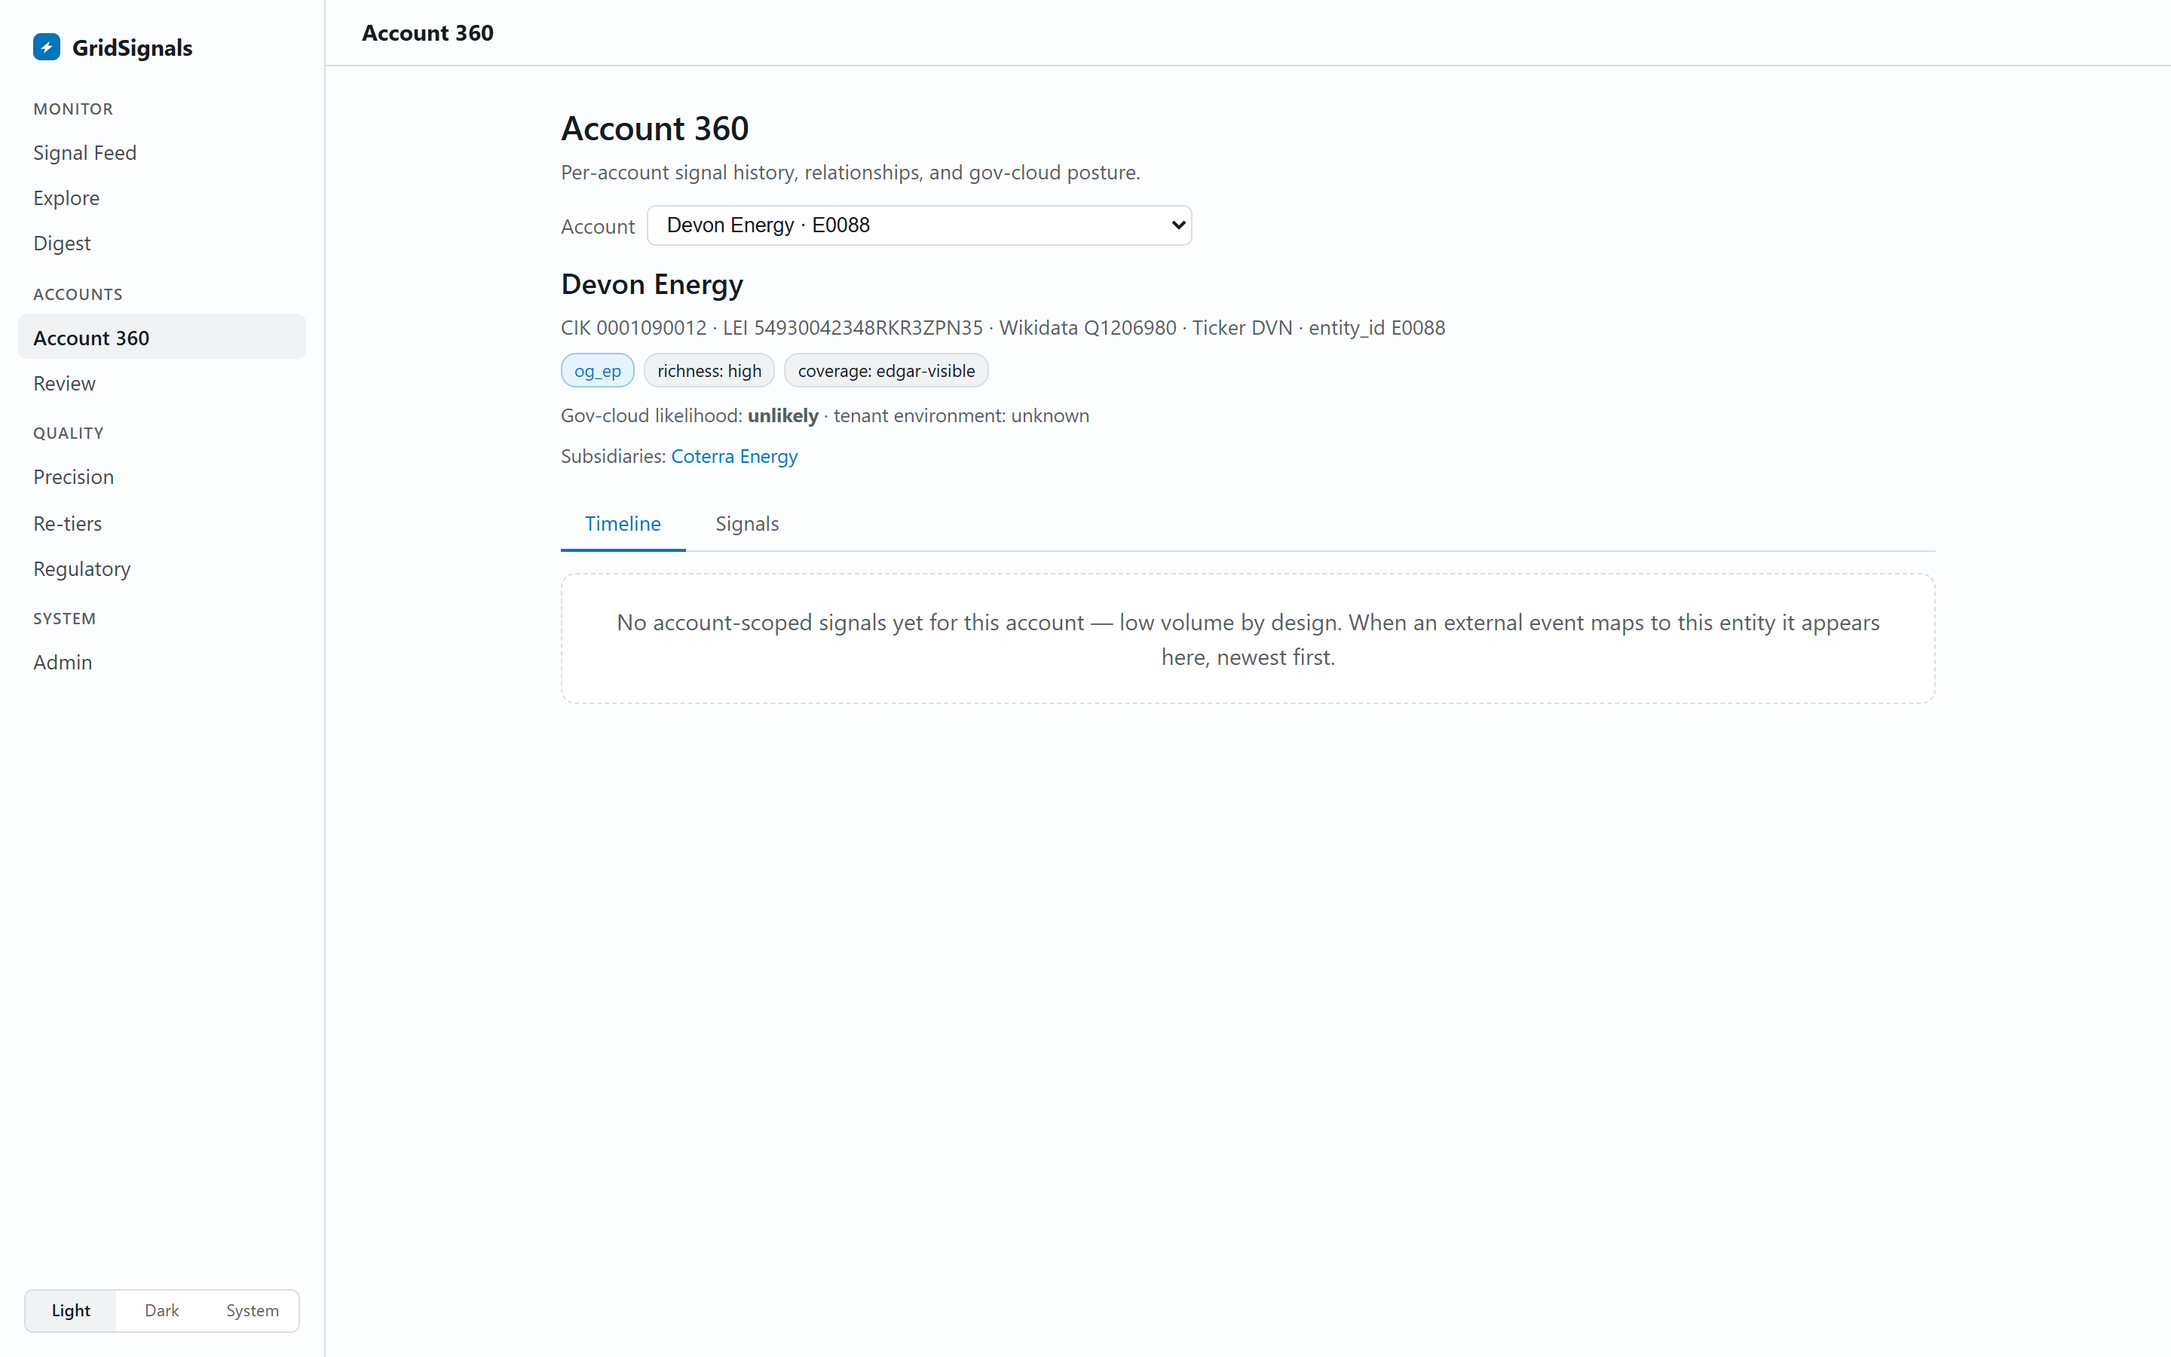
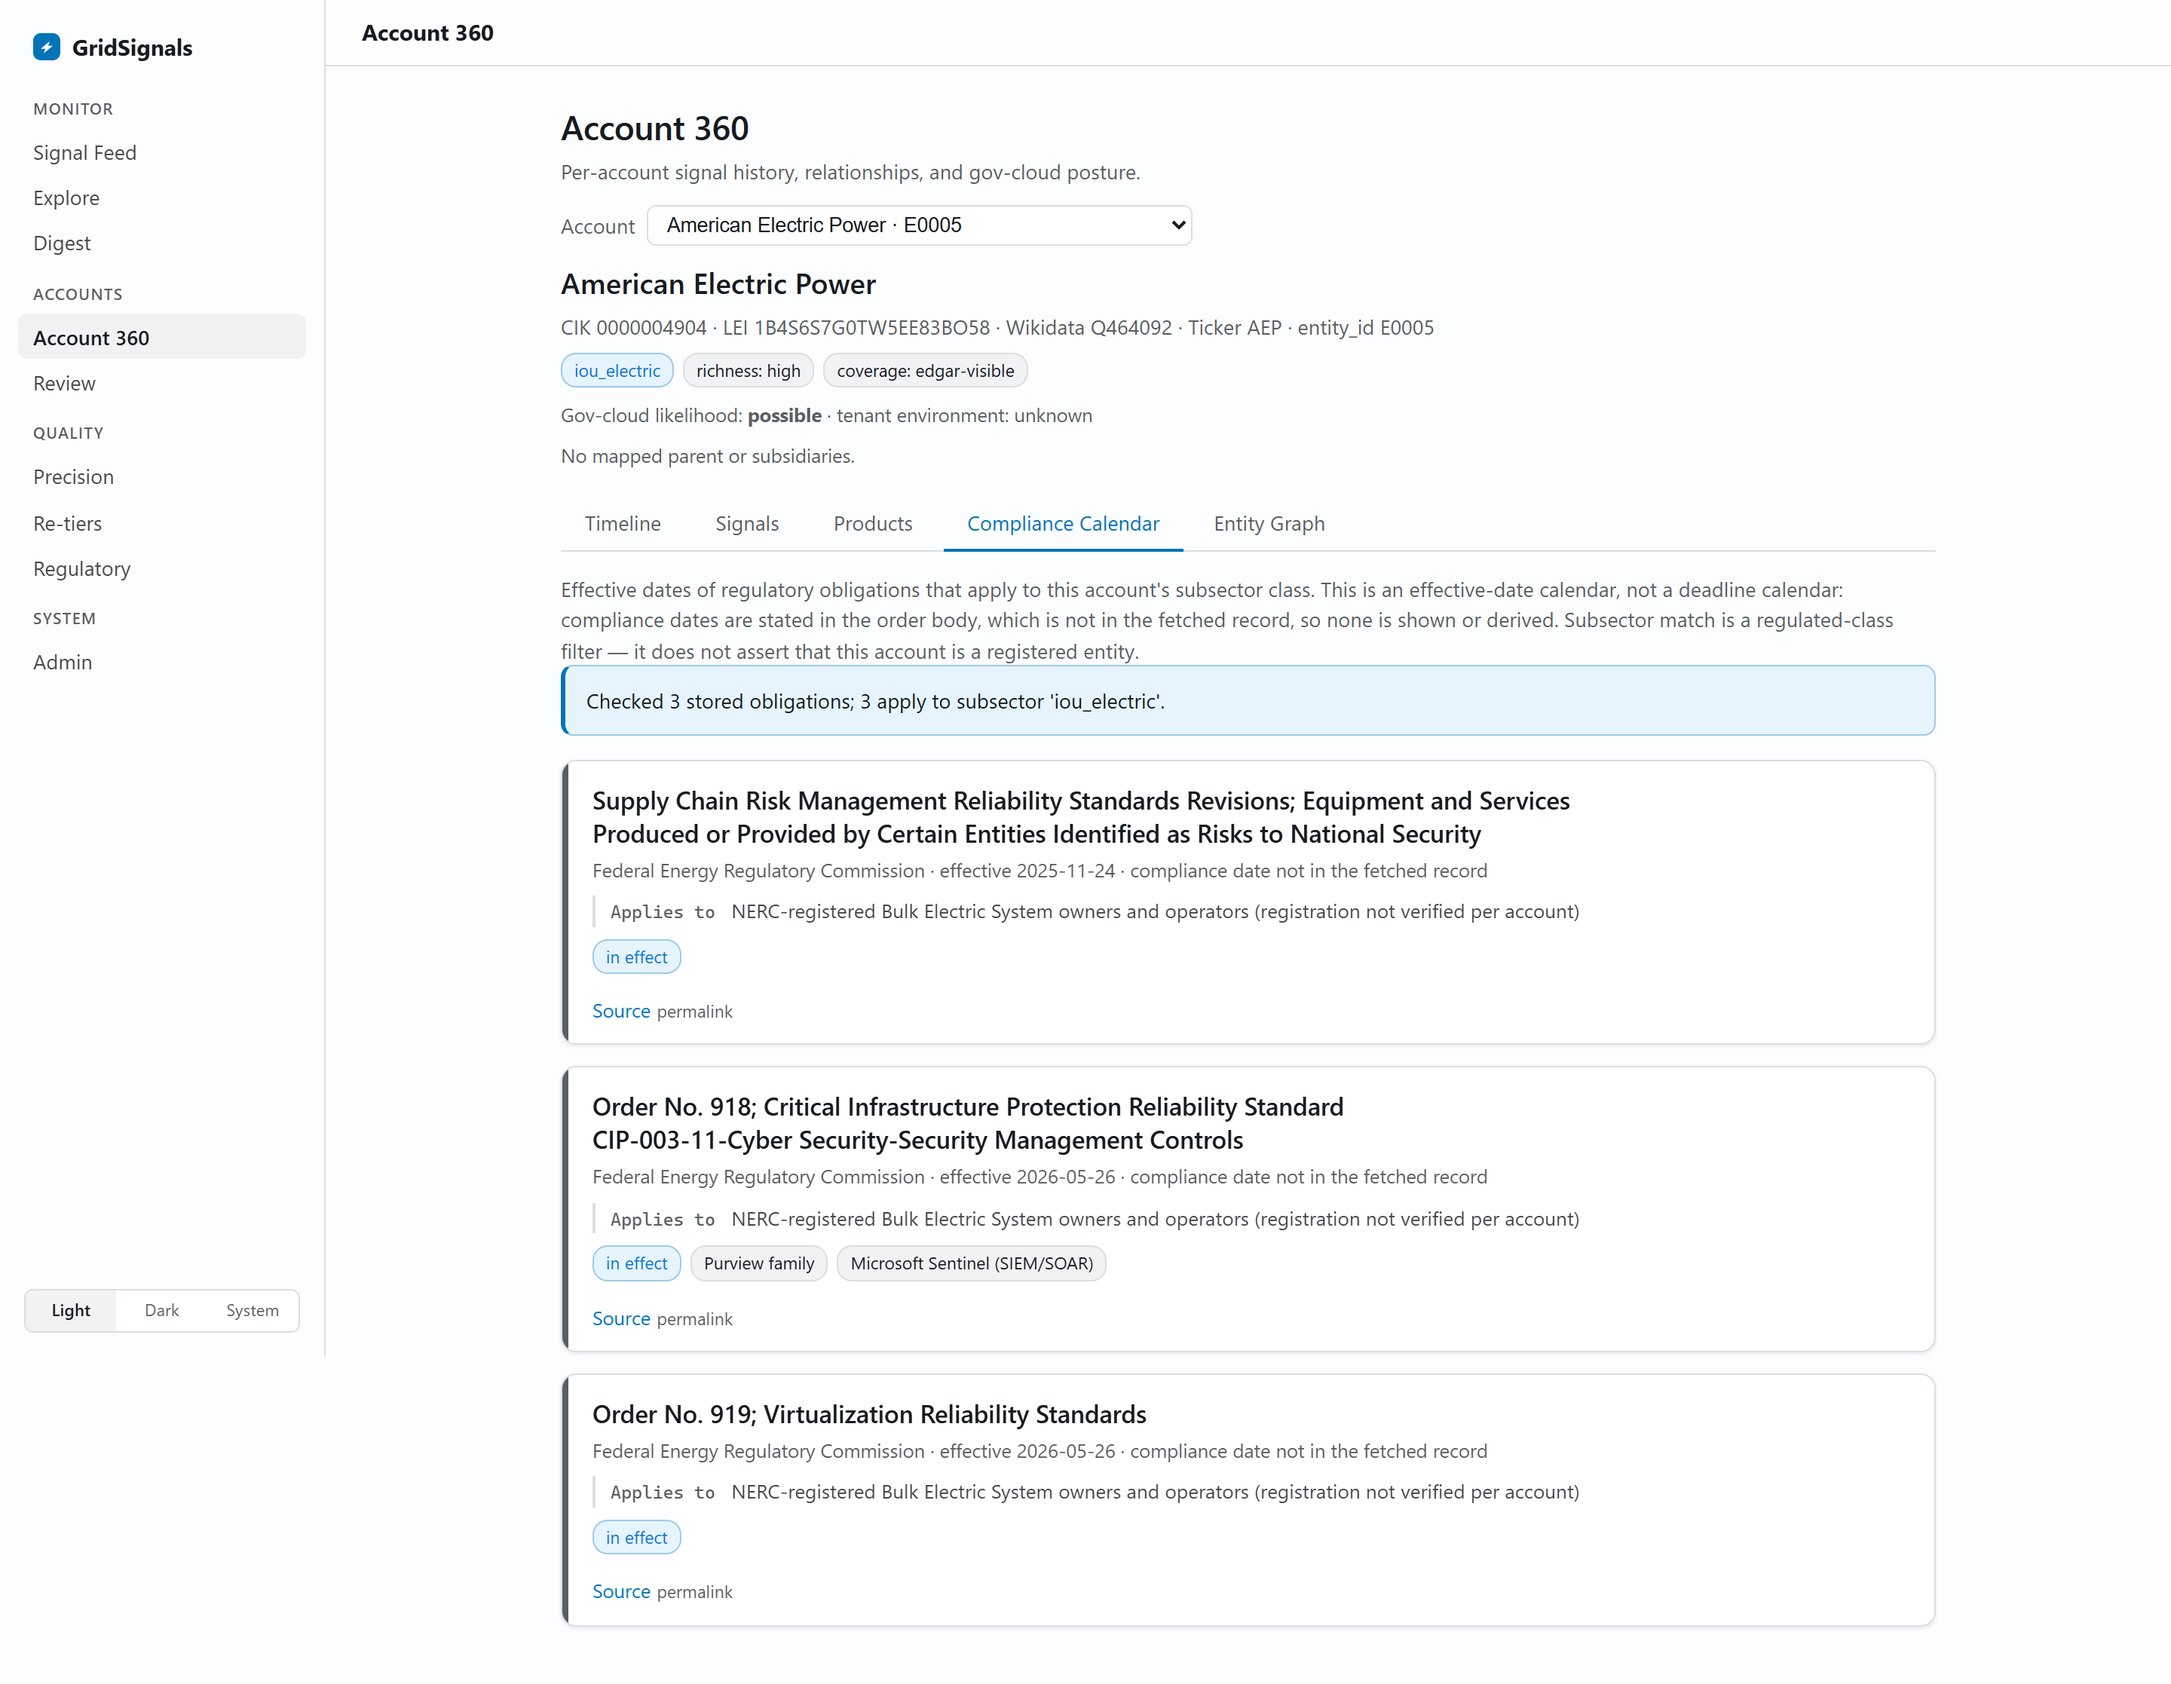
Reconcile the README with the NERC fetchers (#70) and the Account 360 tabs (#72)
Three claims in the README were falsified by merged work and never updated.

Coverage table said `nerc_enforcement` had "2 raw pages stored; no docket
fetcher built". #70 built it and 18 notices are stored. Replaced with the
measurement that actually settles the trigger: 14 of the 18 are monthly
aggregate Spreadsheet Notices naming no entity, 4 are named-entity notices
covering 5 companies, 2 of those are on the watchlist, and NONE names a
violated CIP standard -- which the trigger requires, since a play with no
mapped product is a card with nothing to say.

Roadmap said the enforcement-docket fetcher was "Not built -- the one buildable
path toward account-scope volume". It is built, and the measured ceiling is 2
watchlist entities over 18 months, so that framing no longer holds either.

Source table gained the row for both new NERC sources, stored and unclassified.

Account 360's caption still described the pre-#72 page ("identifiers,
relationships, gov-cloud posture, and signal timeline") with no mention of the
five tabs. Rewritten, and the screenshot regenerated on the Compliance Calendar
rather than the default Timeline -- Timeline is empty on all 171 accounts, so a
naive re-shot would have been a blank panel.

No code touched; test gate unchanged at 1058.

diff --git a/README.md b/README.md
@@ -41,9 +41,11 @@ That is a property of the free public record, not of the classifiers. Measured o
 |---|---|---|
 | `own_incident` | SEC 8-K **Item 1.05** (material cybersecurity incident) | **0 filings** across 1,886 EDGAR submissions |
 | `leadership_change` | SEC 8-K **Item 5.02** filing documents | 45 of 242 documents fetched; **0** named a security executive |
-| `nerc_enforcement` | NERC enforcement dockets | 2 raw pages stored; no docket fetcher built |
+| `nerc_enforcement` | NERC enforcement dockets naming a violated CIP standard | 18 notices ingested; **2** name a watchlist entity, **0** name a CIP standard |
 
-Both empties are structural. Item 1.05 runs roughly two filings a week across ~5,000 SEC issuers nationally, so the energy slice is a couple per *year* — not per week. Item 5.02 is scoped to Section 16 officers, and a CISO is not one; a company can hire its entire security leadership without a filing. No amount of parser quality changes either number.
+All three empties are structural. Item 1.05 runs roughly two filings a week across ~5,000 SEC issuers nationally, so the energy slice is a couple per *year* — not per week. Item 5.02 is scoped to Section 16 officers, and a CISO is not one; a company can hire its entire security leadership without a filing. No amount of parser quality changes either number.
+
+The enforcement docket is now ingested rather than hypothetical, and the measurement is what settles it: of 18 notices spanning 2025-01 → 2026-07, 14 are monthly aggregate "Spreadsheet Notice of Penalty" filings naming no entity and 4 are named-entity notices covering 5 companies — of which two are on the watchlist. None names a violated CIP standard in its title, and the trigger requires one, because a play with no mapped product is a card with nothing to say. Fetching the notice body to recover the standard is the same bet as the Item 5.02 document fetch above, which returned zero; and NERC does not post redacted CIP notices publicly at all, so the CIP subset is not measurable from the public docket by design.
 
 So the account tier stays gated rather than shipped-and-empty. The feed keeps a labeled account/sector divider with the account half blank and the reason stated, the digest ranks sector cards, and account precision is reported separately so a zero denominator reads "not enough evidence yet" instead of 0%.
 
@@ -94,7 +96,9 @@ A crew is named only if it is tied to two or more distinct victims. One victim c
 
 ![Review Queue](assets/screenshots/review-queue.png)
 
-**Account 360** — per-account identifiers, relationships, gov-cloud posture, and signal timeline.
+**Account 360** — per-account identifiers, gov-cloud posture, and five tabs: Timeline, Signals, Products, Compliance Calendar and Entity Graph. Shown on the Compliance Calendar, which is the tab with sourced rows today — obligations are matched by *subsector class*, never keyed to the account, and the panel says so rather than implying this company is a registered entity. It is an **effective-date** calendar: compliance dates live in the order body, which is not in the fetched record, so none is shown or derived. The coverage line ("checked 3 stored obligations; 3 apply to subsector `iou_electric`") is deliberately falsifiable.
+
+The other tabs are empty for most accounts, each stating its own reason: Products reads only the account's *own* signals' plays, and no signal has ever carried an `entity_id`, so sector-scoped plays are deliberately not attributed here; Entity Graph shows only *sourced* relationship edges, so the seeded parent hint never appears in it.
 
 ![Account 360](assets/screenshots/account-360.png)
 
@@ -115,6 +119,7 @@ The MVP target source set — all free and accessed read-only (GET / RSS / JSON 
 | Federal Register API (FERC, TSA) | Classified — regulatory |
 | Press-wire RSS (PR Newswire, GlobeNewswire) | Classified — leadership + company-statement incidents |
 | NERC / FERC public pages | Classified — regulatory |
+| NERC enforcement docket (NP-series) + NERC events calendar | Stored — not classified; see [Coverage](#coverage) for the measured reason |
 | GDELT global news | Stored for backfill (later-stage classification) |
 | CISA KEV + NVD | Stored — known-exploited vulnerabilities |
 | Ransomware tracker (ransomware.live) | Classified — unconfirmed early-warning incidents (own/peer) |
@@ -247,7 +252,7 @@ The MVP classifies regulatory actions, leadership changes, and precision-first c
 | Admin / Config (weight + half-life tuning, source registry with add/enable/disable/guarded-remove, license-fact editor + add, staleness, config audit trail, watchlist entity manager + alias/collision editor + reset/remove) + incident evidence-tier re-tier editor on incident cards (audited `incident_tier_edits` trail) | Implemented |
 | Sector & regulatory scope tier (compliance clocks, peer incidents) | Implemented — the live weekly output |
 | Account-specific scope tier (`own_incident`, `leadership_change`, `nerc_enforcement`) | Implemented but **gated** — inputs are data-empty in the free public record; entry criteria in [Coverage](#coverage) |
-| NERC enforcement-docket fetcher (NP-series notices of penalty) | Not built — the one buildable path toward account-scope volume |
+| NERC enforcement-docket fetcher (NP-series notices of penalty) + NERC events calendar | Implemented — both ingested, neither classified yet; measured ceiling is 2 watchlist entities over 18 months, so this is no longer the account-scope lever it was scoped as (see [Coverage](#coverage)) |
 
 Later stages add combo scoring, GDELT-based classification, and a hiring/macro-trend layer.
 
